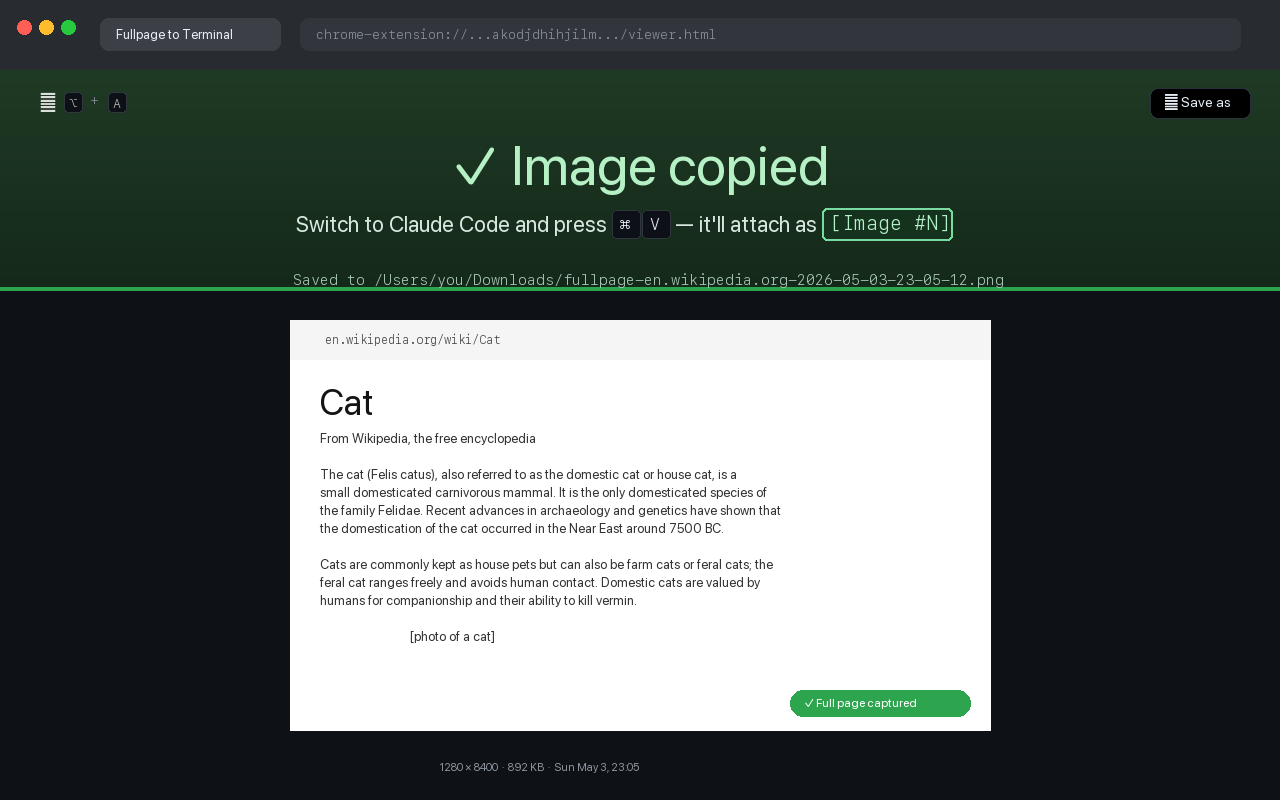
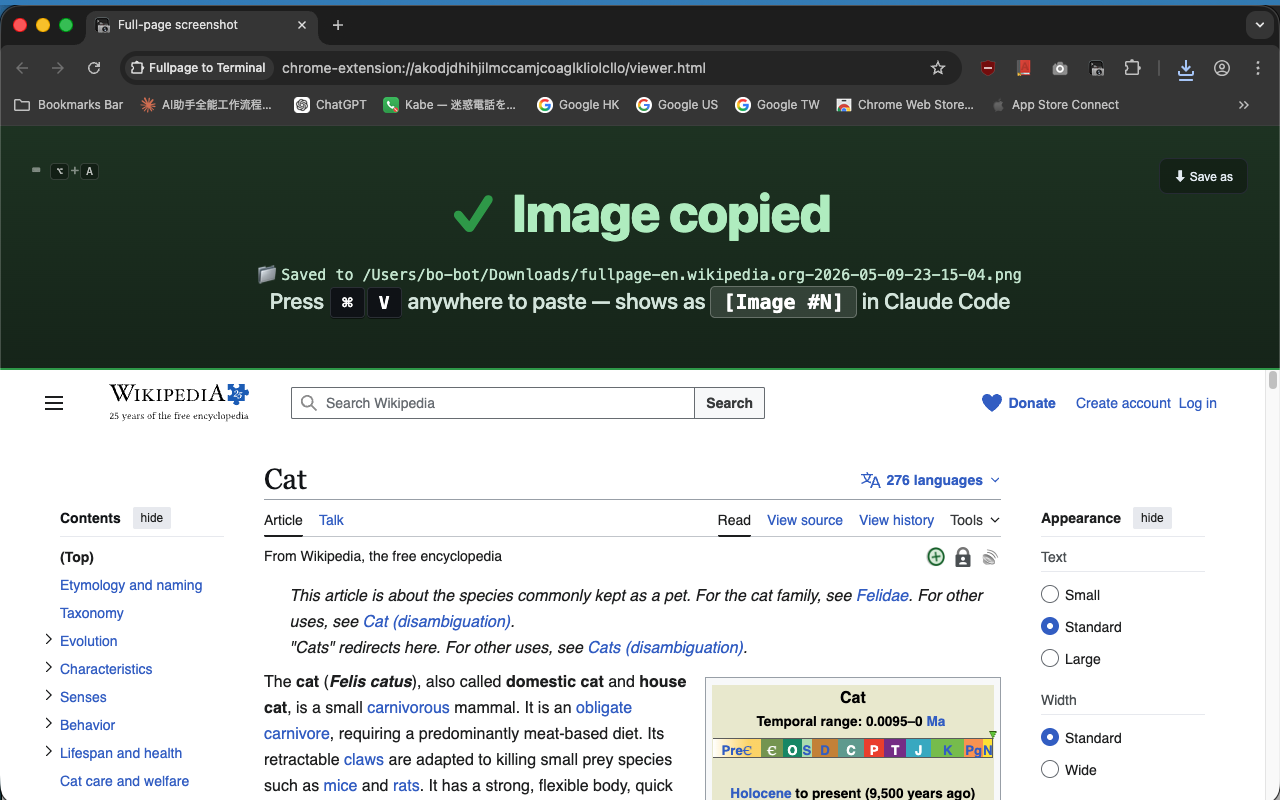
v1.24.1: force instant scrolling — fix garbled/blank captures on smooth-scroll sites (MDN etc.)
Pages with CSS scroll-behavior:smooth animate programmatic scrolls, so
position reads right after scrollTo() returned stale values: all small
elements got falsely flagged as visually-stuck (20/20 on MDN), and the
capture loop exited early leaving most of the canvas blank.

All scrolls (preload, stuck-detection, capture loop, restore) now use
behavior:"instant", plus scroll-behavior:auto !important injected as
belt-and-braces. Verified on MDN (0/20 false positives, clean stitch)
and bet365 (9818px inner-scroll page, clean stitch).

Also includes store listing assets refresh (promo images, generators).

diff --git a/background.js b/background.js
@@ -529,7 +529,10 @@ function neutralizeStickyAndFixed() {
   styleEl.id = "__fullpage_shot_anim_off__";
   styleEl.textContent =
     "*,*::before,*::after{animation-duration:0s !important;animation-delay:0s !important;" +
-    "transition-duration:0s !important;transition-delay:0s !important;}";
+    "transition-duration:0s !important;transition-delay:0s !important;}" +
+    // scroll-behavior:smooth (MDN etc.) makes programmatic scrolls animate; position reads
+    // right after scrollTo() then return stale values → misaligned slices + early loop exit.
+    "html,body,*{scroll-behavior:auto !important;}";
   (document.head || document.documentElement).appendChild(styleEl);
 
   // 2. Walk all elements, find CSS fixed/sticky → display:none
@@ -647,25 +650,27 @@ function detectAndHideSmallVisuallyStuck() {
   const SCROLL_TEST = 300;
   const movedSet = new Set();
 
-  // Test 1: window scroll
+  // Test 1: window scroll — behavior:"instant" overrides CSS scroll-behavior:smooth
+  // (MDN etc.); with smooth, the synchronous rect re-read below sees pre-scroll
+  // positions and ALL candidates get falsely flagged as stuck.
   const winSave = window.scrollY;
-  window.scrollBy(0, SCROLL_TEST);
+  window.scrollBy({ top: SCROLL_TEST, behavior: "instant" });
   for (const c of candidates) {
     const r1 = c.el.getBoundingClientRect();
     if (Math.abs(r1.top - c.r0.t) >= 5 || Math.abs(r1.left - c.r0.l) >= 5) movedSet.add(c.el);
   }
-  window.scrollTo(0, winSave);
+  window.scrollTo({ top: winSave, behavior: "instant" });
 
   // Test 2: inner-host scroll (if present)
   if (bestHost) {
     const hostSave = bestHost.scrollTop || 0;
-    bestHost.scrollTop = hostSave + SCROLL_TEST;
+    bestHost.scrollTo({ top: hostSave + SCROLL_TEST, behavior: "instant" });
     for (const c of candidates) {
       if (movedSet.has(c.el)) continue;
       const r1 = c.el.getBoundingClientRect();
       if (Math.abs(r1.top - c.r0.t) >= 5 || Math.abs(r1.left - c.r0.l) >= 5) movedSet.add(c.el);
     }
-    bestHost.scrollTop = hostSave;
+    bestHost.scrollTo({ top: hostSave, behavior: "instant" });
   }
 
   // Anything that didn't move under EITHER scroll → truly stuck
@@ -726,7 +731,7 @@ function preloadAllContent() {
     const startTs = Date.now();
 
     const finish = () => {
-      window.scrollTo(0, 0);
+      window.scrollTo({ top: 0, behavior: "instant" });
       // give browser one frame so sticky headers settle back to normal
       requestAnimationFrame(() => {
         setTimeout(
@@ -746,7 +751,7 @@ function preloadAllContent() {
         lastH = h;
       }
 
-      window.scrollTo(0, y);
+      window.scrollTo({ top: y, behavior: "instant" });
       y += stepPx;
 
       if (Date.now() - startTs > maxWaitMs) return finish();
@@ -910,7 +915,7 @@ async function scrollStitch(tab, opts) {
         let actualY = 0;
         let rectLeft = 0, rectTop = 0, hostW = 0, hostH = 0;
         if (window.__fpsMode === "inner" && window.__fpsHost) {
-          window.__fpsHost.scrollTop = yy;
+          window.__fpsHost.scrollTo({ top: yy, behavior: "instant" });
           actualY = window.__fpsHost.scrollTop || 0;
           // wait a frame after scroll before reading rect (let layout update)
           const rect = window.__fpsHost.getBoundingClientRect();
@@ -919,7 +924,7 @@ async function scrollStitch(tab, opts) {
           hostW = window.__fpsHost.clientWidth | 0;
           hostH = window.__fpsHost.clientHeight | 0;
         } else {
-          window.scrollTo(0, yy);
+          window.scrollTo({ top: yy, behavior: "instant" });
           actualY = window.scrollY || 0;
         }
         return { actualY, rectLeft, rectTop, hostW, hostH };
@@ -991,9 +996,9 @@ async function scrollStitch(tab, opts) {
     tabId,
     (yy) => {
       if (window.__fpsMode === "inner" && window.__fpsHost) {
-        window.__fpsHost.scrollTop = yy;
+        window.__fpsHost.scrollTo({ top: yy, behavior: "instant" });
       } else {
-        window.scrollTo(0, yy);
+        window.scrollTo({ top: yy, behavior: "instant" });
       }
     },
     [origScrollY || 0]

diff --git a/tools/generate_promo.py b/tools/generate_promo.py
@@ -1,7 +1,8 @@
 #!/usr/bin/env python3
 """生成 Chrome Web Store 上架所需的宣传图：
-- 大宣传图  1280×800（主图）
-- 小宣传图   440×280（缩略图）
+- 大宣传图    1280×800（主图）
+- 小宣传图     440×280（缩略图）
+- Marquee tile 1400×560（精选位用，2.5:1 横幅）
 """
 
 import os
@@ -206,10 +207,62 @@ def make_promo_440x280():
     print("wrote", out_path)
 
 
+def make_promo_1400x560():
+    W, H = 1400, 560
+    im = vertical_grad(W, H, BG_GRAD_TOP, BG_GRAD_BOT).convert("RGBA")
+    d = ImageDraw.Draw(im)
+
+    # Left: icon + title + subtitle + bullets
+    pad_l = 70
+    icon = Image.open(ICON_PATH).convert("RGBA").resize((110, 110), Image.LANCZOS)
+    im.alpha_composite(icon, (pad_l, 70))
+
+    f_name = find_font(54, bold=True)
+    f_tag = find_font(26)
+    d.text((pad_l + 138, 75), "Fullpage to Terminal", font=f_name, fill=TEXT_HEAD)
+    d.text((pad_l + 138, 142), "Screenshot → paste into Claude Code", font=f_tag, fill=TEXT_BODY)
+
+    bullets = [
+        ("✓", "Capture the entire page (not just the visible part)"),
+        ("✓", "Auto-copies as a file reference — paste with ⌘V"),
+        ("✓", "Claude Code receives it as [Image #N], no manual steps"),
+    ]
+    f_bullet = find_font(20)
+    bullets_y = 230
+    for i, (mark, text) in enumerate(bullets):
+        y = bullets_y + i * 42
+        d.text((pad_l, y), mark, font=f_bullet, fill=ACCENT_GREEN)
+        d.text((pad_l + 32, y), text, font=f_bullet, fill=TEXT_BODY)
+
+    f_kbd = find_font(18, mono=True)
+    d.text((pad_l, 430), "Hotkey", font=find_font(14), fill=TEXT_MUTED)
+    d.text((pad_l, 452), "⌥+A  ·  macOS", font=f_kbd, fill=ACCENT)
+
+    # Right: terminal mockup, sized for the wider canvas
+    term_w = 580
+    term_h = 200
+    term_x = W - term_w - 70
+    term_y = (H - term_h) // 2
+    term = draw_terminal_mockup(term_w, term_h)
+    im.alpha_composite(term, (term_x, term_y))
+
+    f_caption = find_font(15)
+    caption = "What appears in your Claude Code terminal after pressing ⌘V"
+    bbox = d.textbbox((0, 0), caption, font=f_caption)
+    cw = bbox[2] - bbox[0]
+    d.text((term_x + (term_w - cw) // 2, term_y + term_h + 14),
+           caption, font=f_caption, fill=TEXT_MUTED)
+
+    out_path = os.path.join(OUT_DIR, "promo-1400x560.png")
+    im.convert("RGB").save(out_path, "PNG", optimize=True)
+    print("wrote", out_path)
+
+
 def main():
     os.makedirs(OUT_DIR, exist_ok=True)
     make_promo_1280x800()
     make_promo_440x280()
+    make_promo_1400x560()
 
 
 if __name__ == "__main__":

diff --git a/tools/generate_screenshot.py b/tools/generate_screenshot.py
@@ -73,7 +73,7 @@ def make_screenshot_1280x800():
     d.text((116, 26), "Fullpage to Terminal", font=find_font(13), fill=TEXT)
     # URL
     d.rounded_rectangle([300, 18, 1240, 50], radius=8, fill=(50, 54, 60))
-    d.text((316, 26), "chrome-extension://...akodjdhihjilm.../viewer.html",
+    d.text((316, 26), "chrome-extension://nibipkcfhagabnf.../viewer.html",
            font=find_font(13, mono=True), fill=MUTED)
 
     # ── 主体：viewer 页 ─────────────────────────────
@@ -163,7 +163,7 @@ def make_screenshot_1280x800():
 
     # ── 文件路径行 📁 Saved to ... ─────────────
     saved_y = sub_y + 60
-    saved_text = "📁 Saved to /Users/you/Downloads/fullpage-en.wikipedia.org-2026-05-03-23-05-12.png"
+    saved_text = "📁 Saved to /Users/you/Downloads/fullpage-en.wikipedia.org-2026-05-09-22-50.png"
     f_saved = find_font(15, mono=True)
     bb = d.textbbox((0, 0), saved_text, font=f_saved)
     sw = bb[2] - bb[0]
@@ -219,7 +219,7 @@ def make_screenshot_1280x800():
 
     # ── 底部状态行 ──────────────────────
     foot_y = H - 40
-    d.text((W // 2 - 200, foot_y), "1280 × 8400  ·  892 KB  ·  Sun May 3, 23:05",
+    d.text((W // 2 - 200, foot_y), "1280 × 8400  ·  892 KB  ·  Sat May 9, 22:50",
            font=find_font(11), fill=MUTED)
 
     out_path = os.path.join(OUT_DIR, "screenshot-1280x800.png")
